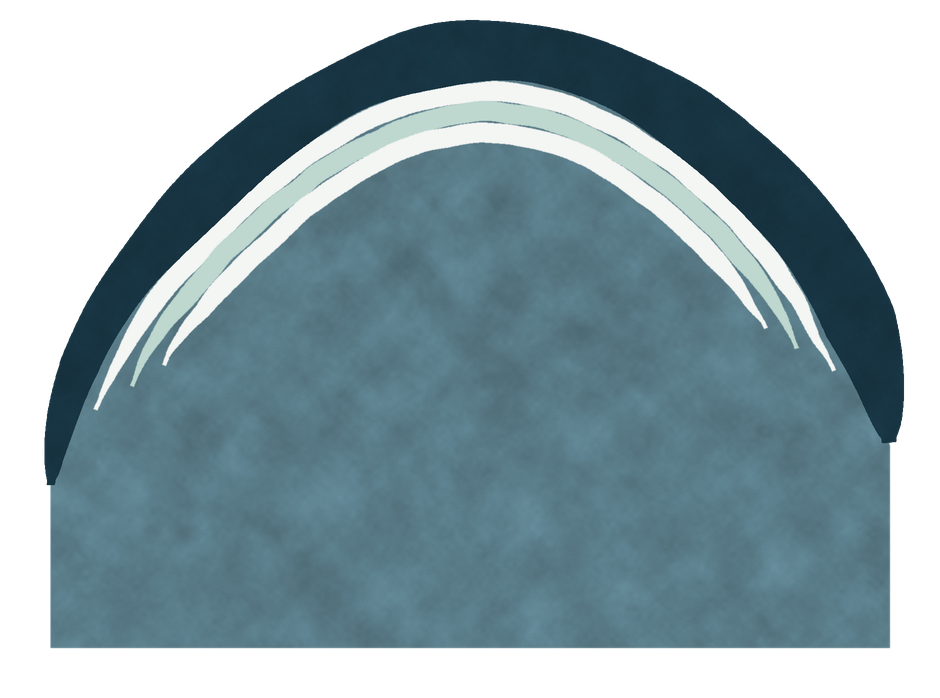
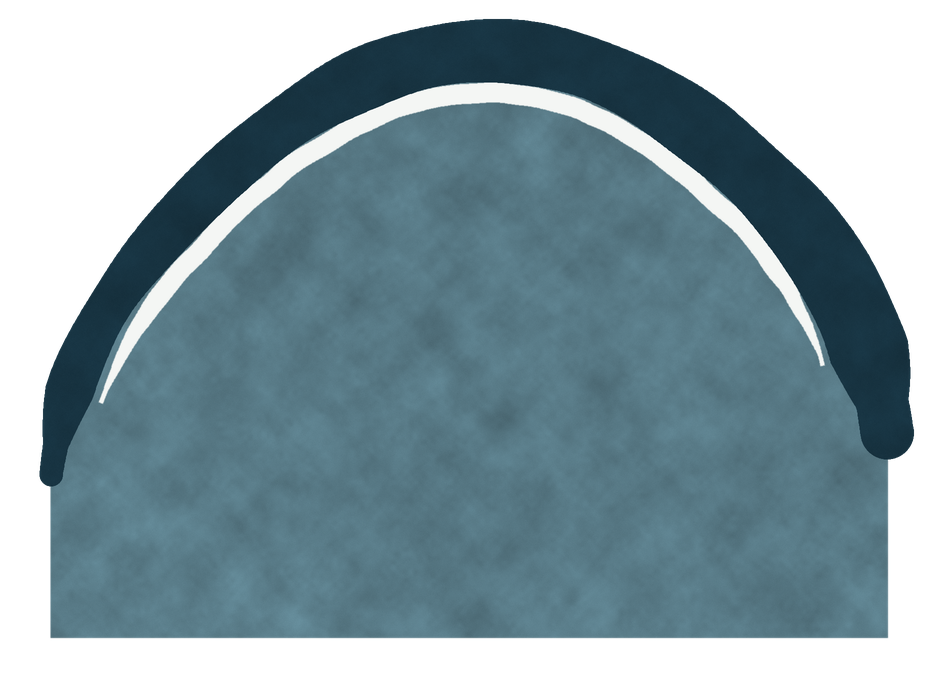
Холмы: выпуклые округлые купола без выемок и игл, плитка_сетка_v2
Claude-Session: https://claude.ai/code/session_01V1ND1TKADLpK8q5yuLYU2P

diff --git a/паттерн_холмы/рисую_холмы.py b/паттерн_холмы/рисую_холмы.py
@@ -41,6 +41,20 @@ def contour(arc, W):
     return np.vstack([Lm[:len(Lm) - len(pts)], R])
 
 
+def convex_top(P):
+    """Верхняя выпуклая оболочка контура: убирает вогнутости и перегибы по верху, оставляет округлый купол."""
+    from scipy.spatial import ConvexHull
+    h = ConvexHull(P); v = list(h.vertices); pts = P[v]
+    l = int(np.argmin(pts[:, 0])); r = int(np.argmax(pts[:, 0])); t = int(np.argmin(pts[:, 1])); n = len(v)
+    def walk(a_, b_, step):
+        out = [a_]
+        while out[-1] != b_: out.append((out[-1] + step) % n)
+        return out
+    ch = walk(l, r, 1)
+    if t not in ch: ch = walk(l, r, -1)
+    return pts[ch]
+
+
 def resample(P, step):
     d = np.r_[0, np.cumsum(np.hypot(*np.diff(P, axis=0).T))]; s = np.arange(0, d[-1], step)
     return np.c_[np.interp(s, d, P[:, 0]), np.interp(s, d, P[:, 1])], d[-1]
@@ -62,7 +76,9 @@ def stroke(shape, C, widths, soft=0.0):
 
 
 def make_sprite(arc, idx):
-    W = a.width * SS; P = contour(arc, W); top = P[:, 1].min(); bw = P[:, 0].max() - P[:, 0].min()
+    W = a.width * SS; P = contour(arc, W)
+    P, _ = resample(convex_top(P), 2.0 * SS); P = ndi.gaussian_filter1d(P, sigma=12, axis=0, mode='nearest')      # выпуклый и скруглённый верх
+    top = P[:, 1].min(); bw = P[:, 0].max() - P[:, 0].min()
     base = max(top + 1.5 * W * 0.55, P[:, 1].max() + 0.25 * W); pad = int(0.08 * W)
     x0 = P[:, 0].min() - pad; Hs = int(base - top + 2 * pad); Ws = int(bw + 2 * pad)
     Q = P - np.array([x0, top - pad])
@@ -74,7 +90,7 @@ def make_sprite(arc, idx):
     # полоса и линии по кривой
     C, L = resample(Q, 3.0 * SS / 2); s = np.linspace(0, 1, len(C))
     C = ndi.gaussian_filter1d(C, sigma=7, axis=0, mode='nearest')            # гладкая кривая: без изломов от разреженных точек дуги
-    taper = np.clip((np.minimum(s, 1 - s) / 0.10) ** 0.6, 0.18, 1)
+    taper = np.clip((np.minimum(s, 1 - s) / 0.07) ** 0.5, 0.62, 1)
     tilt = 1 + 0.28 * (2 * s - 1) * rng.choice([-1, 1])
     bw_s = 0.095 * W * taper * tilt                                          # гладкая ширина (по ней идут светлые линии)
     bw_ = bw_s * (1 + 0.07 * ndi.gaussian_filter(rng.normal(0, 1, len(C)), 25) / 0.1)   # у самой полосы лёгкая живая неровность, без зубцов
@@ -90,7 +106,11 @@ def make_sprite(arc, idx):
         m, _ = stroke((Hs, Ws), Ck, wk); m = ndi.gaussian_filter(m, 0.7 * SS / 2) * fmask
         colr = WHITE if k % 2 == 0 else MINT; col_f = col_f * (1 - m[..., None]) + colr * m[..., None]
     # тёмная полоса с неровным краем
-    bm, _ = stroke((Hs, Ws), C, bw_); b = ndi.gaussian_filter(bm, 1.3 * SS / 2); nz = ndi.gaussian_filter(rng.normal(0, 1, (Hs, Ws)), 5.0 * SS / 2) * 4.0
+    bm, _ = stroke((Hs, Ws), C, bw_)
+    _bi = Image.fromarray((bm * 255).astype(np.uint8)); _d = ImageDraw.Draw(_bi)
+    for _k in (0, -1): _d.ellipse([C[_k][0] - bw_[_k] / 2, C[_k][1] - bw_[_k] / 2, C[_k][0] + bw_[_k] / 2, C[_k][1] + bw_[_k] / 2], fill=255)   # круглые заглушки: концы полосы тупые, без игл
+    bm = np.array(_bi).astype(float) / 255
+    b = ndi.gaussian_filter(bm, 1.3 * SS / 2); nz = ndi.gaussian_filter(rng.normal(0, 1, (Hs, Ws)), 5.0 * SS / 2) * 4.0
     bmask = np.clip((b - 0.5 + 0.045 * nz) / 0.18 + 0.5, 0, 1)
     bcol = BAND[None, None, :] * (1 + 0.05 * f[..., None]) + rng.normal(0, 1.2, (Hs, Ws, 1))
     rgb = col_f * (1 - bmask[..., None]) + bcol * bmask[..., None]
